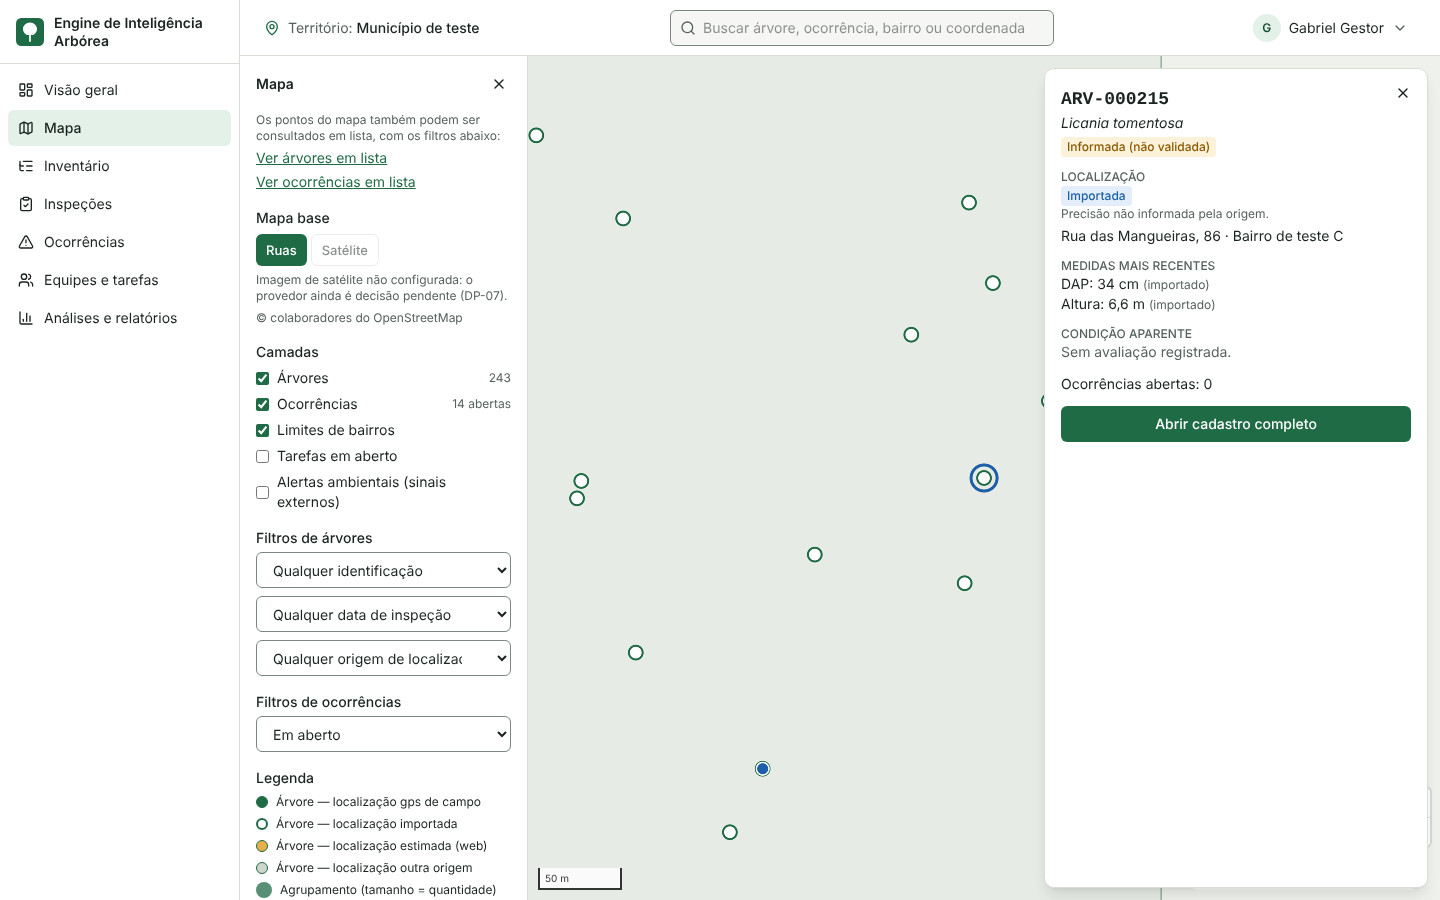
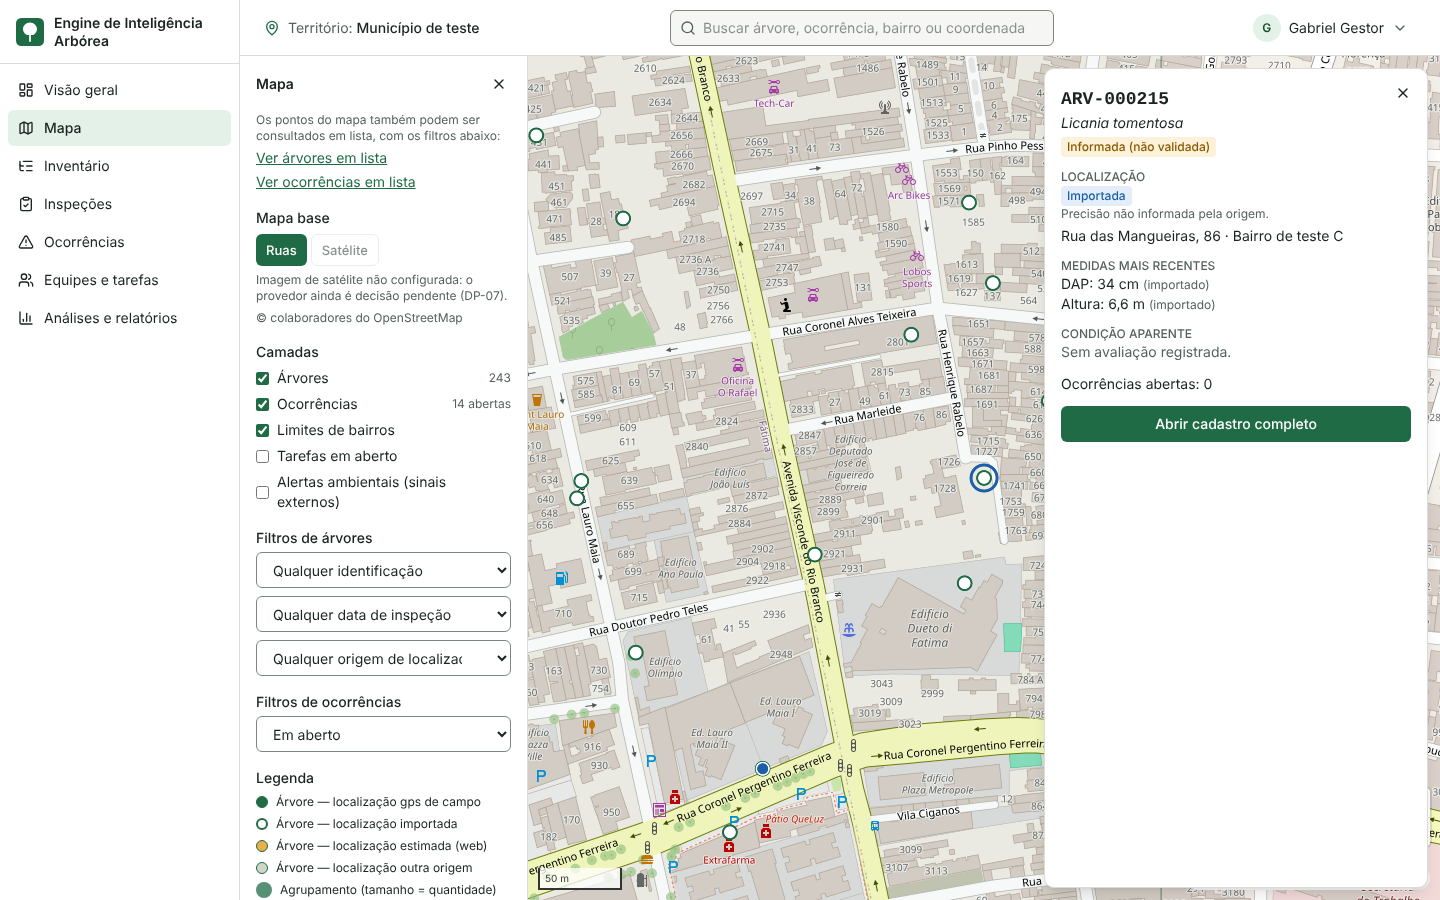
docs: capturas do mapa com o mapa base do OpenStreetMap
O ambiente de captura passou a acessar tile.openstreetmap.org; o roteiro não
bloqueia mais os tiles.

Claude-Session: https://claude.ai/code/session_019QZw3AejLVwVpmC8aN5VGL

diff --git a/scripts/telas/capturar.js b/scripts/telas/capturar.js
@@ -13,8 +13,6 @@ async function entrar(nav, email, senha) {
     locale: "pt-BR",
     timezoneId: "America/Fortaleza",
   });
-  // Tiles do mapa base não são acessíveis neste ambiente: responde vazio em vez de esperar o timeout.
-  await ctx.route(/tile\.openstreetmap\.org/, (r) => r.fulfill({ status: 204, body: "" }));
   const p = await ctx.newPage();
   await p.goto(BASE + "/visao-geral");
   await p.waitForURL(/localhost:8080/);

diff --git a/docs/telas/README.md b/docs/telas/README.md
@@ -5,9 +5,9 @@ sintéticos**: bairros, árvores, pessoas e alertas são inventados, e as fotos
 são ilustrações geradas por código. Nada aqui representa a realidade de
 Fortaleza.
 
-- **Mapa base em branco.** O ambiente de captura não tem acesso aos tiles do
-  OpenStreetMap, então aparecem só as camadas da própria plataforma: bairros,
-  árvores, ocorrências, tarefas e alertas.
+- **Mapa base.** O mapa usa os tiles padrão do OpenStreetMap, sobre ruas
+  reais de Fortaleza. Os bairros, árvores e ocorrências desenhados por cima
+  são fictícios.
 - **Autor "Sistema" na auditoria.** Os dados foram semeados por script, fora de
   uma requisição; em uso real, o autor é a pessoa logada.
 - **Como refazer.** Para atualizar as imagens depois de mudar a interface, use
